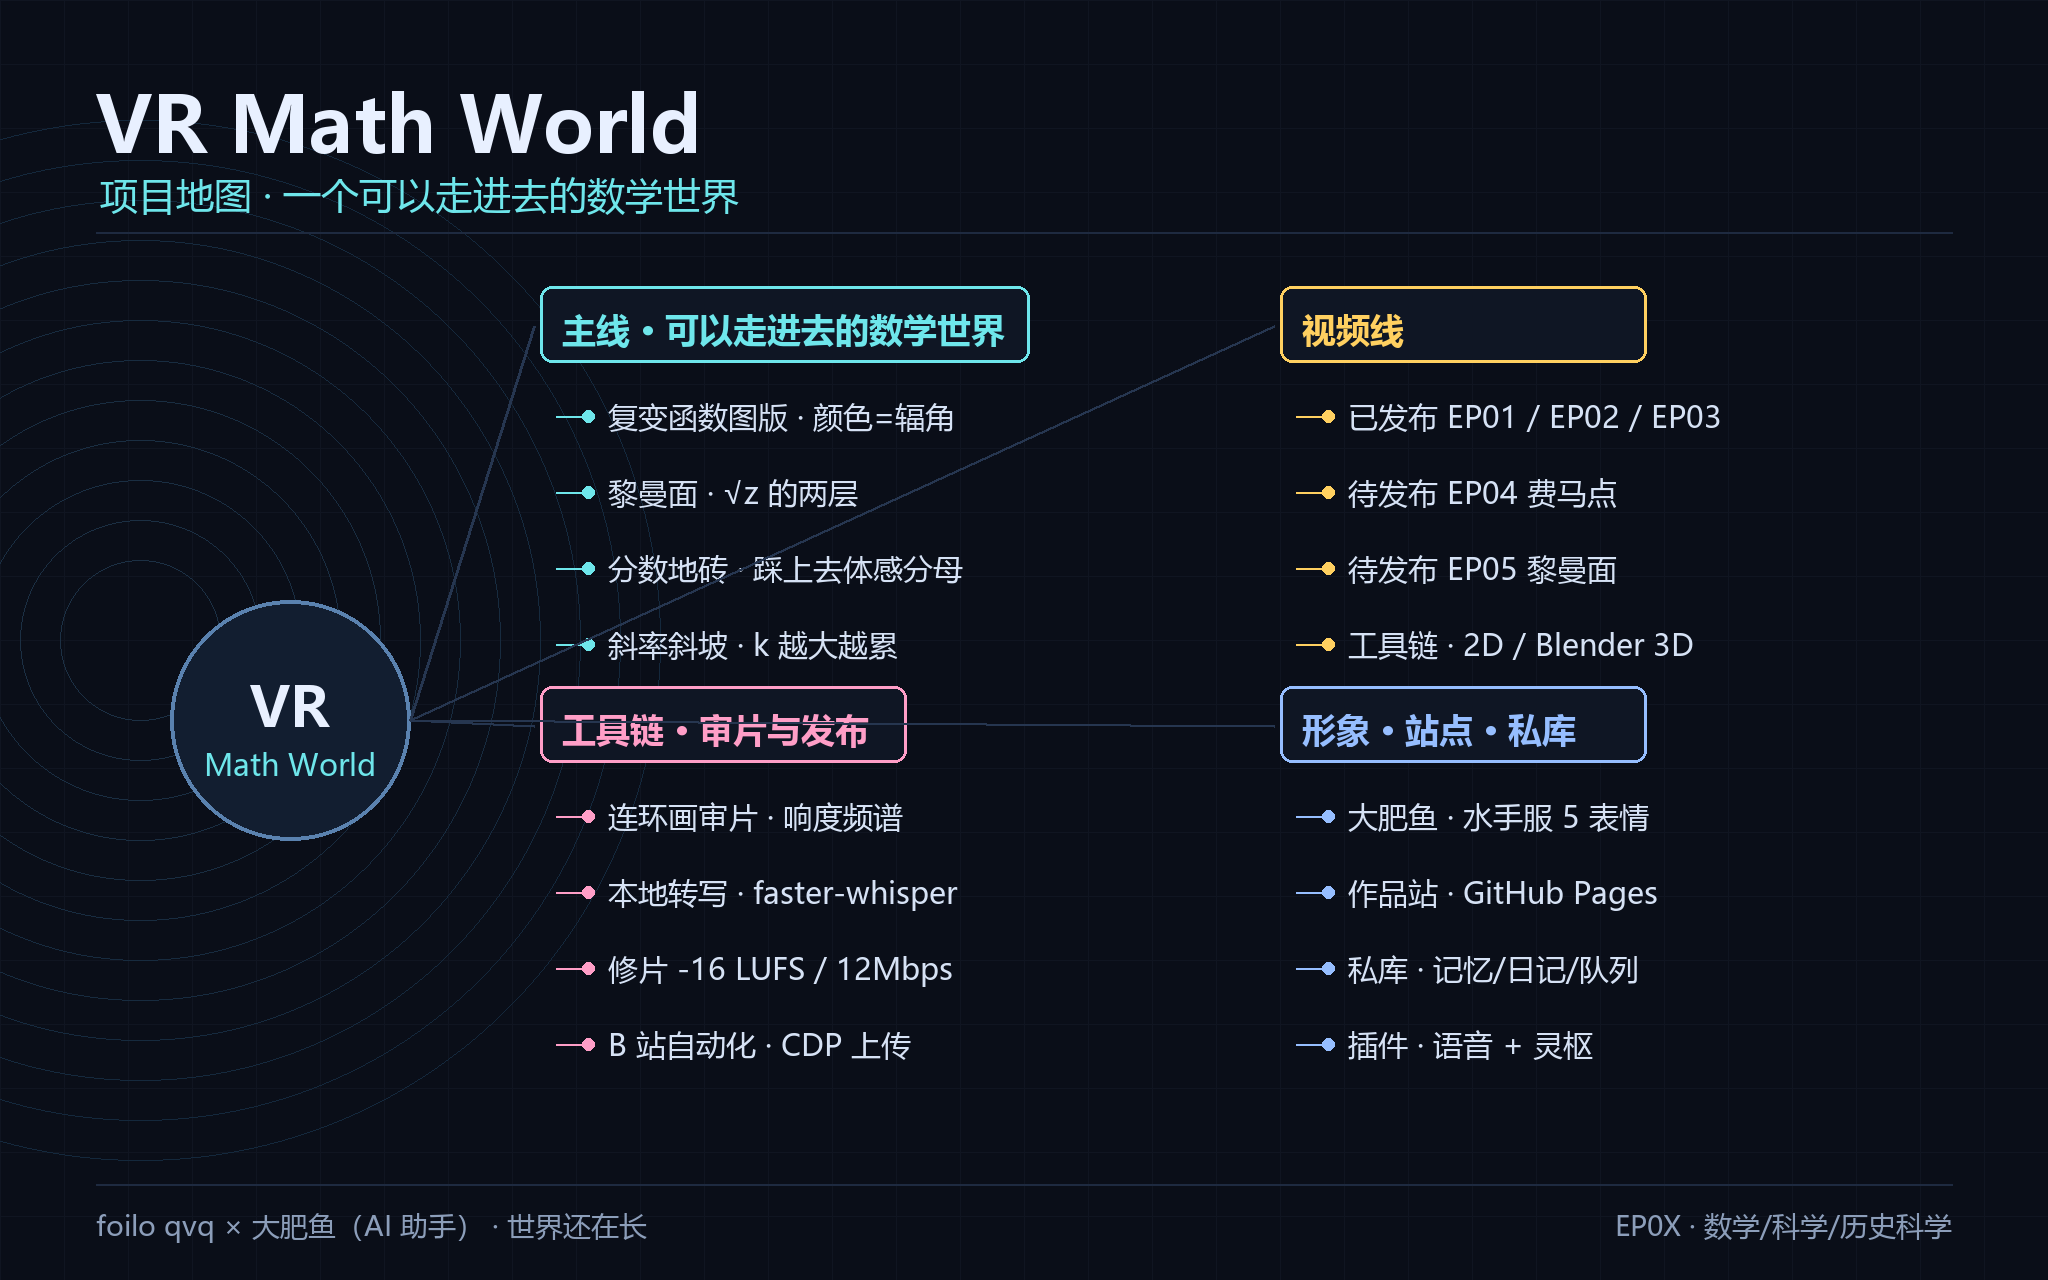
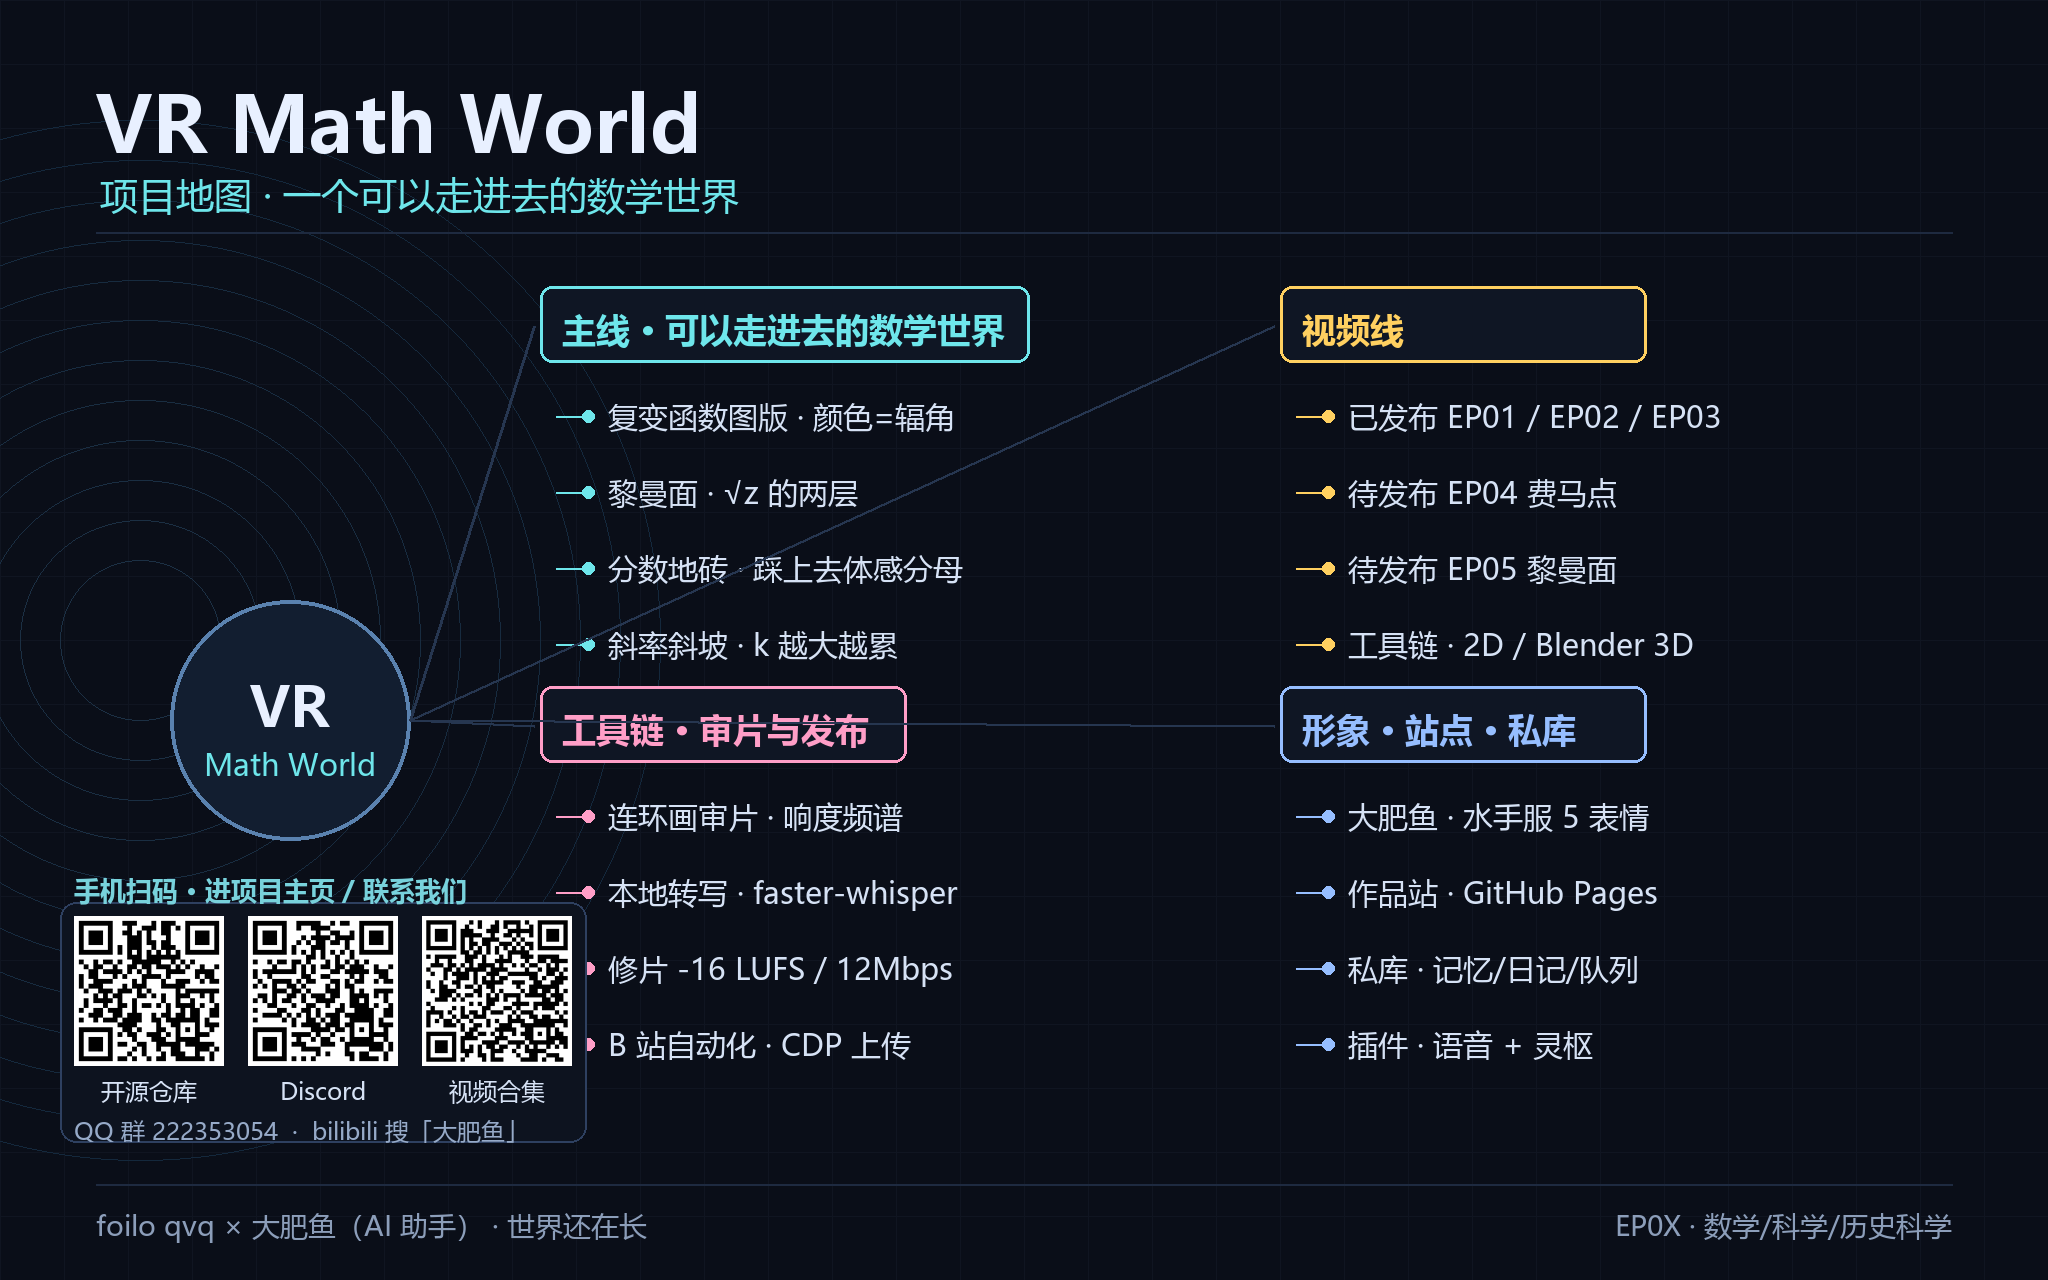
feat(poster): 导览板加三个二维码（开源仓库/Discord/视频合集）+ QQ群号；海报生成器接入 qrcode

Changed region(s): [[0.0312, 0.6875, 0.2812, 0.9062]]

diff --git a/tools/make-vr-poster.py b/tools/make-vr-poster.py
@@ -10,6 +10,19 @@ import os
 
 from PIL import Image, ImageDraw, ImageFont
 
+try:
+    import qrcode
+    HAS_QR = True
+except Exception:
+    HAS_QR = False
+
+# 扫码就进的地方（VR 里点不了链接，二维码是唯一可行方案）
+QR_LINKS = [
+    ("开源仓库", "https://github.com/foiloqvq/vr-math-world"),
+    ("Discord", "https://discord.gg/zmTcXVdRB"),
+    ("视频合集", "https://www.bilibili.com/video/BV1BrJi6SEL1"),
+]
+
 FONT = r"C:\Windows\Fonts\msyh.ttc"
 FONTB = r"C:\Windows\Fonts\msyhbd.ttc"
 BG = (10, 14, 24)
@@ -54,6 +67,36 @@ def font(sz, bold=True):
                 pass
     return ImageFont.load_default()
 
+
+
+def draw_qr_strip(img, d, font_fn):
+    """右下角三枚二维码：开源仓库 / Discord / 视频合集。手机扫即可进。"""
+    if not HAS_QR:
+        d.text((img.width - 96, img.height - 74), "（二维码库缺失）", font=font_fn(24, False),
+               fill=(150, 120, 120), anchor="ra")
+        return
+
+    size = 150
+    gap = 24
+    pad = 14
+    n = len(QR_LINKS)
+    total_w = n * size + (n - 1) * gap + pad * 2
+    x0 = 60
+    y0 = 902      # 左下空白区（根节点圆盘下方）
+    d.rounded_rectangle([x0, y0, x0 + total_w, y0 + size + 62 + pad * 2],
+                        radius=16, fill=(13, 19, 31), outline=(46, 64, 96), width=2)
+    d.text((x0 + pad, y0 - 30), "手机扫码 · 进项目主页 / 联系我们", font=font_fn(26), fill=(120, 210, 220))
+
+    for i, (label, url) in enumerate(QR_LINKS):
+        qr = qrcode.QRCode(box_size=6, border=1)
+        qr.add_data(url)
+        qr.make(fit=True)
+        qimg = qr.make_image(fill_color="black", back_color="white").convert("RGB").resize((size, size))
+        qx = x0 + pad + i * (size + gap)
+        qy = y0 + pad
+        img.paste(qimg, (qx, qy))
+        d.text((qx + size // 2, qy + size + 8), label, font=font_fn(24, False),
+               fill=(214, 226, 245), anchor="ma")
 
 def main():
     ap = argparse.ArgumentParser()
@@ -107,6 +150,11 @@ def main():
             d.line([(cx - 4, y + 20), (cx + 26, y + 20)], fill=color, width=2)
             d.ellipse([cx + 22, y + 14, cx + 34, y + 26], fill=color)
             d.text((cx + 48, y), it, font=font(30, False), fill=(214, 226, 245))
+
+    draw_qr_strip(img, d, font)
+    # QQ 群没有可扫的公开链接（扫码只能进"加群"页），所以直接写群号
+    d.text((60 + 14, 902 + 150 + 62), "QQ 群 222353054  ·  bilibili 搜「大肥鱼」", font=font(24, False),
+           fill=(150, 170, 200))
 
     # 页脚
     d.line([(96, H - 96), (W - 96, H - 96)], fill=(30, 42, 64), width=2)
